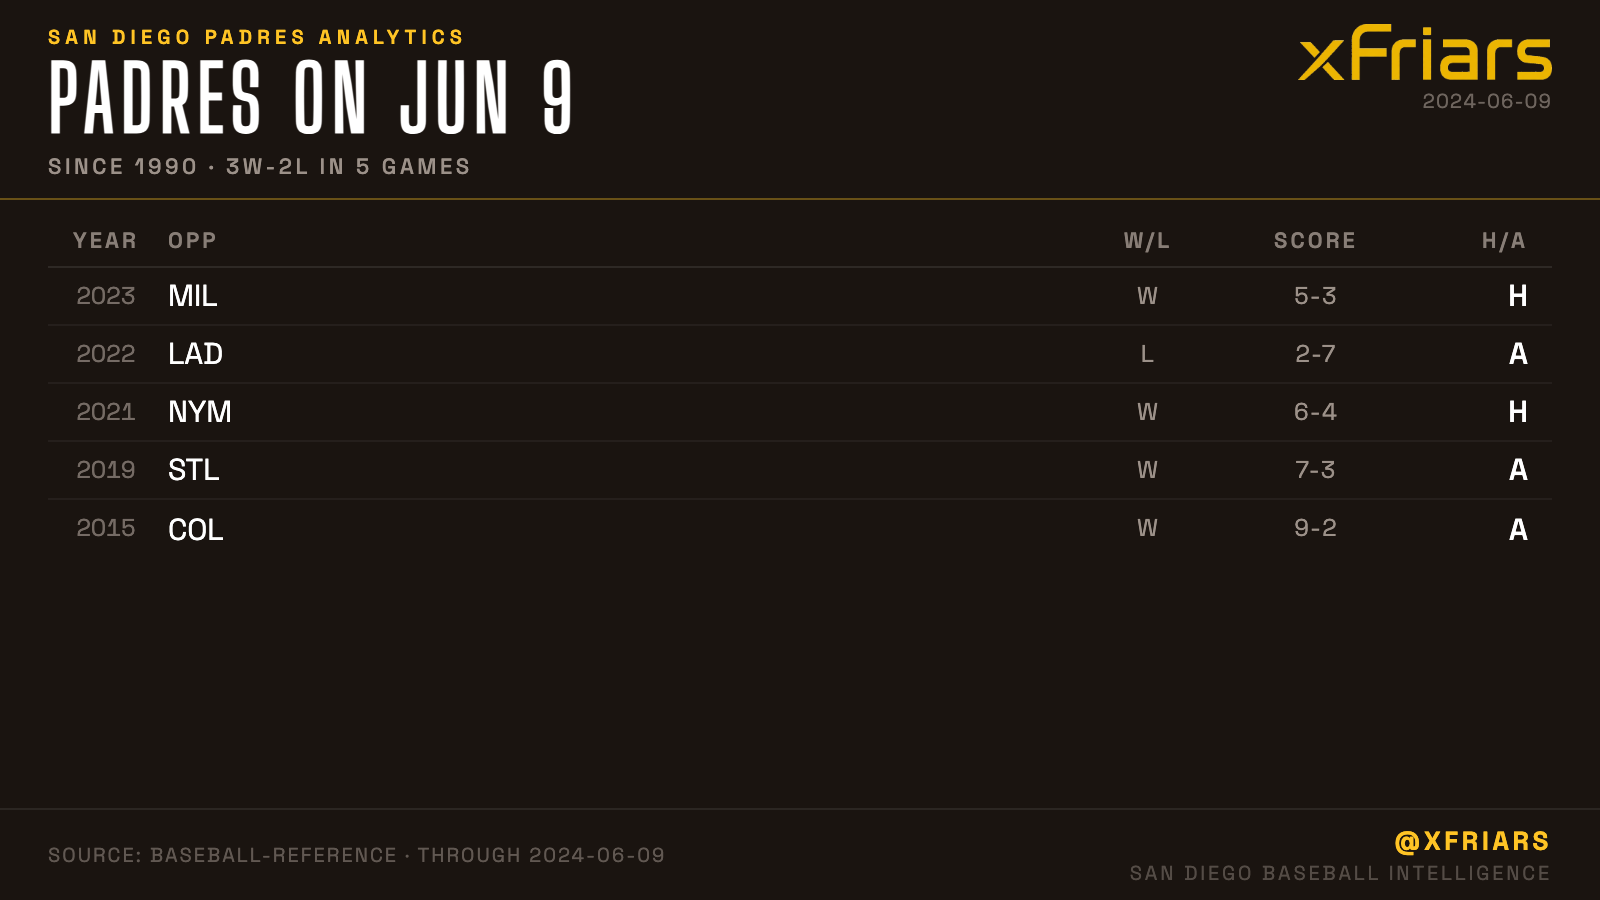
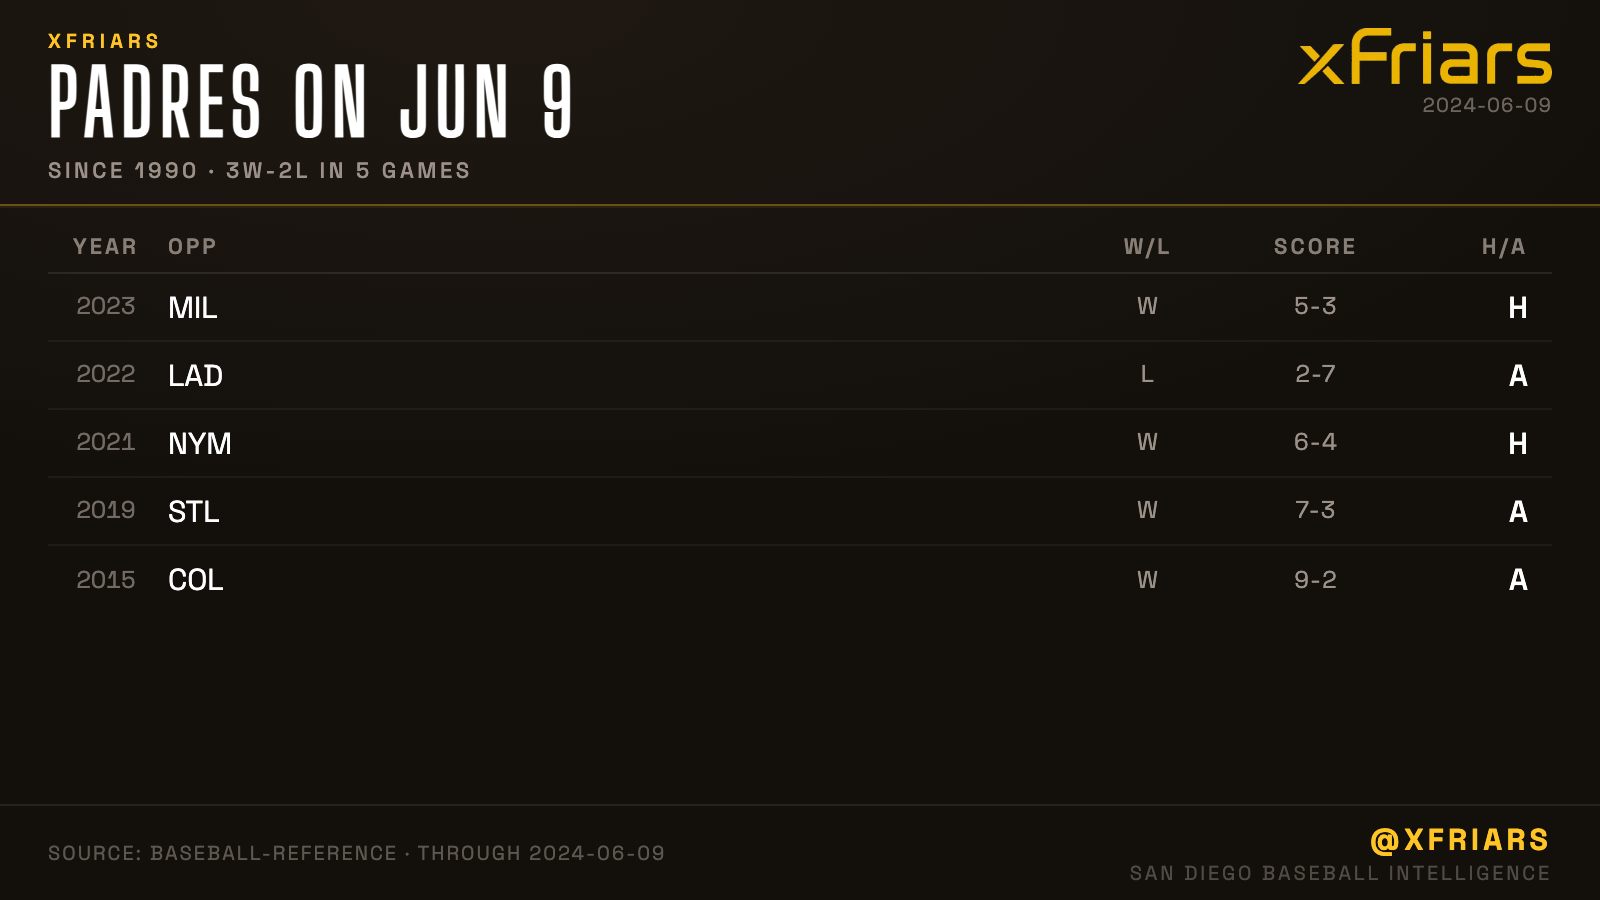
style: premium visual polish — cards + Studio
Table card: radial-gradient bg depth, row height 29→34px, hero stat
20→26px with gold text-shadow, highlight gradient 0.12→0.20, left
accent bar 3→4px, @user handle 13→15px, header padding +2px and
ambient gold glow.

Bar card: same bg + header treatment, bars 18→20px, glow stdDeviation
4→6, dim bar opacity 0.18→0.22/0.40, highlight value 16→18px, track
opacity 0.05→0.07.

Studio: detail-title weight 400→900, font-size 34→42px, uppercase;
fact/CLI panels get inset inner-light shadow; nav gets ambient gold
glow; score badges pill-shaped; selected item slightly richer.

diff --git a/studio/src/index.css b/studio/src/index.css
@@ -42,6 +42,7 @@ html, body, #root {
   gap: 0;
   background: var(--bg-deep);
   border-bottom: 1px solid var(--hairline-gold);
+  box-shadow: 0 2px 20px rgba(255, 196, 37, 0.05);
   padding: 0 24px;
   height: 52px;
   flex-shrink: 0;
@@ -145,9 +146,10 @@ html, body, #root {
 .list-item:hover { background: rgba(255,255,255,0.03); }
 
 .list-item.selected {
-  background: rgba(255, 196, 37, 0.07);
+  background: rgba(255, 196, 37, 0.09);
   border-left: 3px solid var(--gold);
   padding-left: 13px;
+  box-shadow: inset 0 0 20px rgba(255, 196, 37, 0.04);
 }
 
 .list-item-top {
@@ -173,8 +175,8 @@ html, body, #root {
 .score-badge {
   font-size: 11px;
   font-weight: 600;
-  padding: 2px 6px;
-  border-radius: 4px;
+  padding: 2px 8px;
+  border-radius: 9999px;
   flex-shrink: 0;
   font-variant-numeric: tabular-nums;
 }
@@ -246,12 +248,13 @@ html, body, #root {
 
 .detail-title {
   font-family: "Big Shoulders Display", sans-serif;
-  font-weight: 400;
-  font-size: 34px;
+  font-weight: 900;
+  font-size: 42px;
   color: var(--text-white);
-  letter-spacing: 0.05em;
-  line-height: 1;
-  margin-bottom: 4px;
+  letter-spacing: 0.06em;
+  text-transform: uppercase;
+  line-height: 0.95;
+  margin-bottom: 6px;
 }
 
 .detail-sub {
@@ -329,6 +332,7 @@ html, body, #root {
   border: 1px solid var(--border);
   border-radius: var(--radius);
   padding: 10px 12px;
+  box-shadow: inset 0 1px 0 rgba(255, 255, 255, 0.04);
 }
 
 .fact-key {
@@ -363,6 +367,7 @@ html, body, #root {
   gap: 12px;
   cursor: pointer;
   transition: border-color 0.15s;
+  box-shadow: inset 0 1px 0 rgba(255, 255, 255, 0.04);
 }
 
 .cli-block:hover { border-color: var(--border-strong); }